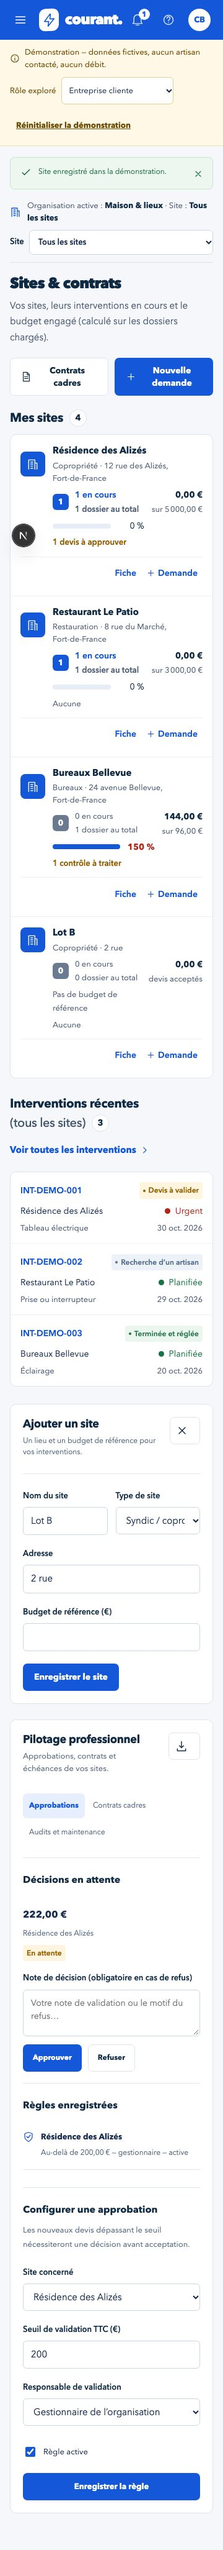
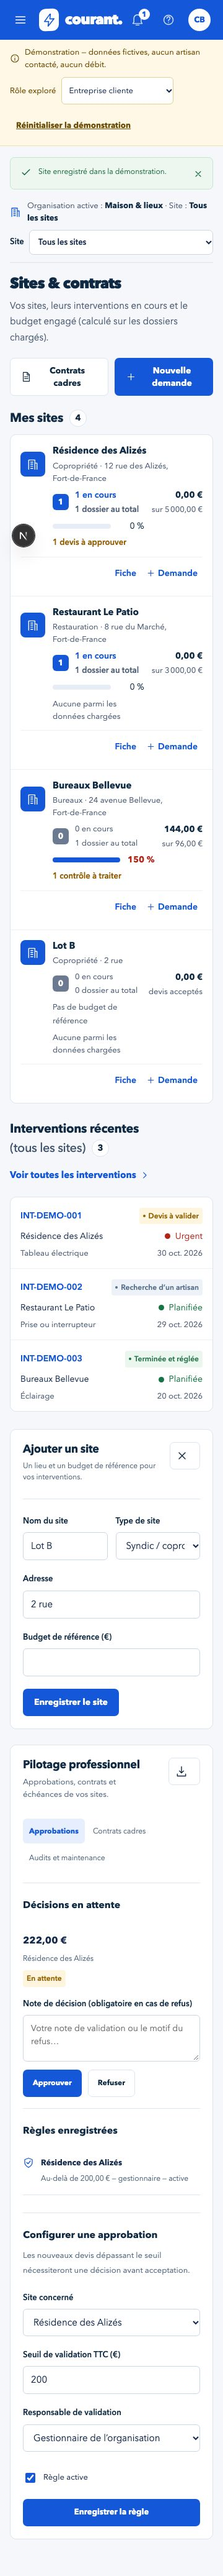
fix(enterprise): visible loaded-data qualifier for site alerts on mobile (VIS-REV-001)
- "Aucune parmi les données chargées" is visible in each alerts cell under
  760 px where the column header hint is hidden; visually hidden on desktop
  (header hint carries it), announced everywhere
- Re-captured sites-360 boards (short-label row, focus ring, 150 % budget)

diff --git a/components/role/enterprise.module.css b/components/role/enterprise.module.css
@@ -927,6 +927,16 @@
   color: #b42318;
   font-weight: 550;
 }
+/* Qualificatif « parmi les données chargées » : porté par l’en-tête de colonne sur grand
+   écran (masqué visuellement ici, toujours lu), affiché dans la cellule sur mobile. */
+.alertQualifier {
+  position: absolute;
+  width: 1px;
+  height: 1px;
+  overflow: hidden;
+  clip: rect(0 0 0 0);
+  white-space: nowrap;
+}
 /* Alertes non vérifiées : données professionnelles indisponibles, aucune absence affirmée. */
 .alertUnverified {
   display: inline-flex;
@@ -1911,6 +1921,14 @@
   }
   .thHint {
     display: none;
+  }
+  .alertQualifier {
+    position: static;
+    width: auto;
+    height: auto;
+    overflow: visible;
+    clip: auto;
+    white-space: normal;
   }
   /* Sites : site pleine largeur, puis en cours | montant, budget, alertes, actions. */
   .sitesTable .cellSite {

diff --git a/components/role/enterprise-space.tsx b/components/role/enterprise-space.tsx
@@ -2073,7 +2073,9 @@ function SitesView({ c }: { c: Ctx }) {
                           </span>
                         ) : alerts.kind === "none" ? (
                           <span className={styles.muted}>
-                            Aucune<span className="sr-only"> parmi les données chargées</span>
+                            Aucune
+                            {/* Visible sur mobile (en-tête de colonne masqué), lu partout. */}
+                            <span className={styles.alertQualifier}> parmi les données chargées</span>
                           </span>
                         ) : alerts.kind === "checking" ? (
                           <span className={styles.muted}>Vérification…</span>

diff --git a/docs/CLAUDE_VISUAL_FIDELITY_CONTRACT.md b/docs/CLAUDE_VISUAL_FIDELITY_CONTRACT.md
@@ -83,7 +83,7 @@ Démo locale `next dev` pilotée par un navigateur sans tête ; aucune preview e
 
 | Constat | Correction | Où | Vérification |
 | --- | --- | --- | --- |
-| VIS-REV-001 — « Aucune » affiché sans données professionnelles | La cellule Alertes dépend de l’état réel du contrat professionnel : « Vérification… » tant qu’il est inconnu, « Non vérifiées » (cadenas) s’il est manquant/indisponible, avec une note `Unavailable` au-dessus du tableau et un bouton Réessayer ; « Aucune » n’apparaît qu’avec des données chargées et porte la mention « parmi les données chargées » (en-tête de colonne, légende du tableau, texte lu par les lecteurs d’écran). Aucune conformité réglementaire ni SLA n’est déduit. | `siteAlertSummary` (`enterprise-lists.ts`), `SitesView` | Tests unitaires (états unknown / unavailable / missing / available, pluriels). **Limite** : la démo fige toutes les capacités à « disponible » (`courant-app.tsx`, hors périmètre), l’état « Non vérifiées » n’est donc pas capturable en démo ; il est couvert par le test et la lecture du code. |
+| VIS-REV-001 — « Aucune » affiché sans données professionnelles | La cellule Alertes dépend de l’état réel du contrat professionnel : « Vérification… » tant qu’il est inconnu, « Non vérifiées » (cadenas) s’il est manquant/indisponible, avec une note `Unavailable` au-dessus du tableau et un bouton Réessayer ; « Aucune » n’apparaît qu’avec des données chargées et porte la mention « parmi les données chargées » : en-tête de colonne et légende du tableau sur grand écran, texte visible dans chaque cellule sous 760 px (où l’en-tête est masqué), lu par les lecteurs d’écran partout. Aucune conformité réglementaire ni SLA n’est déduit. | `siteAlertSummary` (`enterprise-lists.ts`), `SitesView` | Tests unitaires (états unknown / unavailable / missing / available, pluriels). **Limite** : la démo fige toutes les capacités à « disponible » (`courant-app.tsx`, hors périmètre), l’état « Non vérifiées » n’est donc pas capturable en démo ; il est couvert par le test et la lecture du code. |
 | VIS-REV-002 — filtre local de site conservé après changement de périmètre global | `reconcileFilters` efface le site local et ramène à la page 1 dès que l’organisation ou le site global change, ou si le site local n’appartient plus au périmètre ; le hook applique le résultat comme prédicat effectif (liste, compteur, export et pagination cohérents). Type, statut, recherche et tri sont conservés. Droits inchangés. | `reconcileFilters`, `useInterventionList` | Tests unitaires (inchangé, site global, retour à tous les sites, changement d’organisation, site orphelin) ; séquence de la revue rejouée : site local A → site global B donne « 1 intervention », Exporter actif ; retour à « Tous les sites » vide le sélecteur local. `interventions-1280-filter-reset-global-site.jpg`, `interventions-1280-filter-reset-all-sites.jpg`. |
 | VIS-REV-003 — taux de budget plafonné avant affichage | `budgetFigures` sépare le taux réel (`ratio`, affiché et annoncé : « 150 % ») de la largeur de barre (`width`, seule valeur plafonnée à 100). Budget absent : `ratio` null, « Pas de budget de référence » / « Budget non défini ». Même correction sur la fiche de site. | `budgetFigures`, `wholePercent`, `siteFigures`, fiche de site | Tests 0 / 45 / 80 / 100 / 150 % / budget absent. `sites-1280-after-review.jpg` : 144 € engagés sur 96 € → « 150 % », barre pleine rouge, `aria-label` « 150,0 % … budget dépassé ». |
 | VIS-REV-004 — cible < 44 px sous 760 px | `.rowOpen` garde `min-height: 44px` et occupe toute la largeur de sa cellule sur mobile ; anneau de focus explicite (3 px) dans le module, le panneau coupant les débordements. | `enterprise.module.css` | Mesures à 360 px : 66 / 66 / 66 / **45 px** (site « Lot B », adresse « 2 rue »), lignes d’interventions 45 px ; focus clavier visible. `sites-360-focus-short-label.jpg`, `sites-360-after-review.jpg`, `interventions-360-after-review.jpg`. Aucun débordement horizontal de page. |
